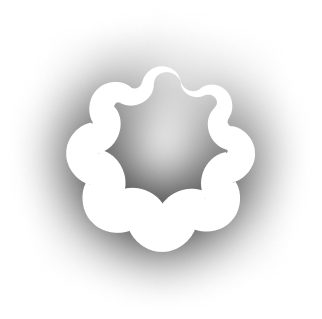
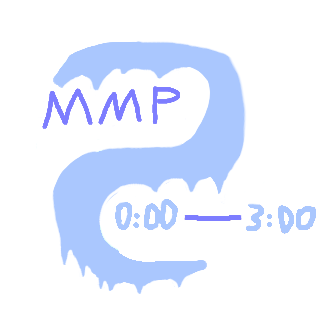
Rebrand as NAME

diff --git a/index.html b/index.html
@@ -41,7 +41,7 @@
   <header class="titlebar" id="titlebar">
     <div class="titlebar-drag">
       <div class="app-logo">
-        <span class="logo-dot" id="titlebar-logo-dot"></span>
+      <span class="logo-dot" id="titlebar-logo-dot"></span>
         <span class="logo-text">MMPlayer Epstein edition</span>
       </div>
     </div>
@@ -1572,7 +1572,7 @@
 
           <div class="settings-credits">
             <span class="settings-credits-text">
-              MittyMusicPlayer is made by mittens, a fork of <a href="https://github.com/rootscripts/riff" target="_blank" rel="noopener">Riff</a>-----<a href="https://discord.com/users/838708666123026462" target="_blank" rel="noopener">send feedback to mittens</a>
+              MittyMusicPlayer is made by mittens, a fork of <a href="https://github.com/rootscripts/riff" target="_blank" rel="noopener">Riff</a> <a href="https://discord.com/users/838708666123026462" target="_blank" rel="noopener">send feedback to mittens</a>
             </span>
             <span class="settings-version-tag">v42.3.0-alpha</span>
           </div>

diff --git a/app.js b/app.js
@@ -8935,16 +8935,6 @@ paused: !isPlaying,
     });
   }
 
-  if (!localStorage.getItem('riff_bg_seeded')) {
-    localStorage.setItem('riff_bg_seeded', '1');
-    if (localStorage.getItem('riff_bg_url') === null) {
-      localStorage.setItem('riff_bg_url', 'assets/disco.png');
-      updateCustomBg();
-      onBackgroundChanged('custom', true);
-    }
-  }
-
-
   if (sliderBgOpacity) {
     sliderBgOpacity.addEventListener('input', (e) => {
       const v = parseInt(e.target.value, 10);
